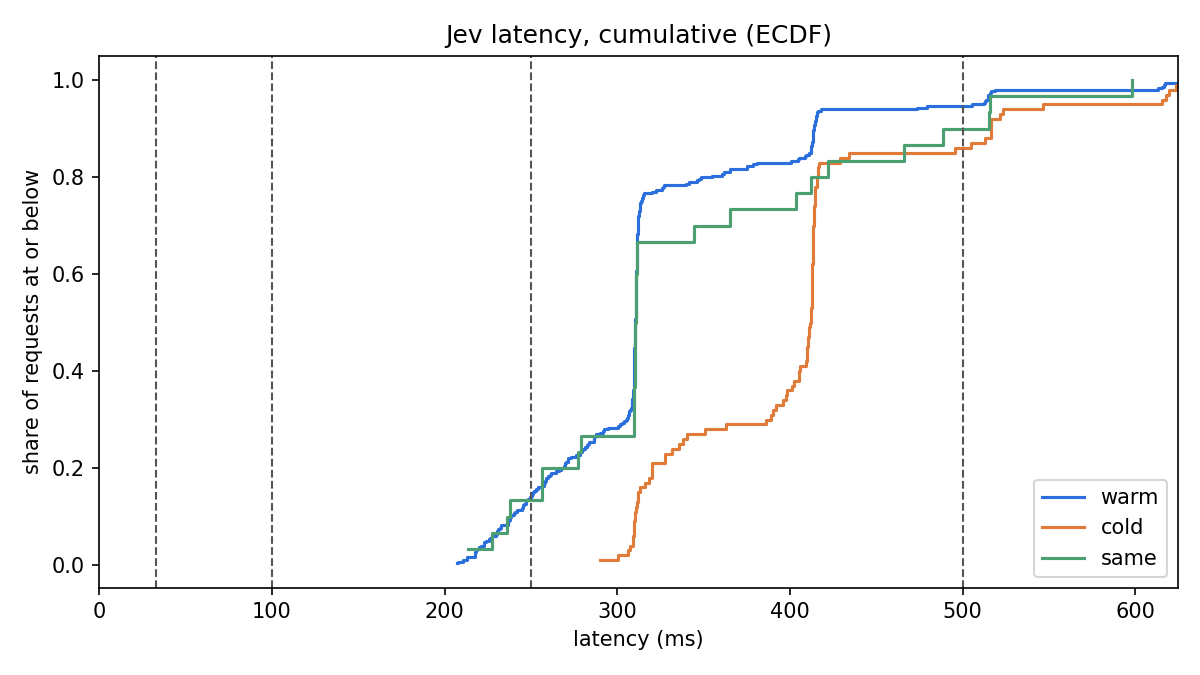
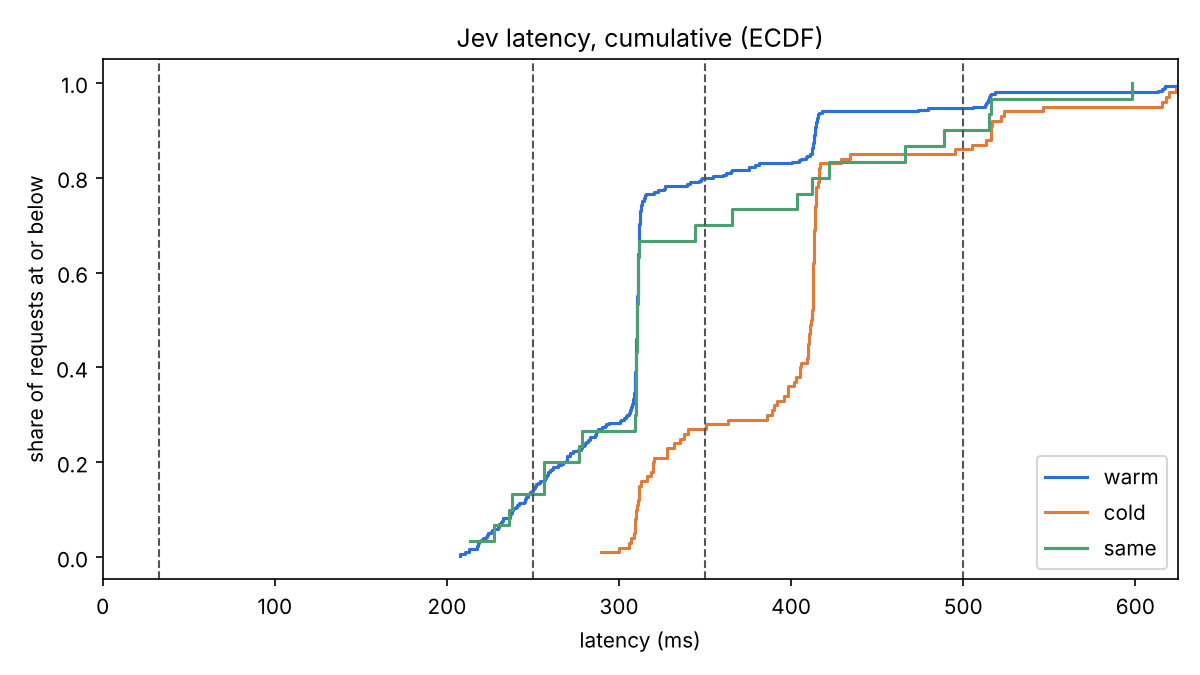
Pool several Step 0 runs: Jev latency varies over the day
Step 0 now writes a timestamped CSV per run, 'measured' latency pools every
results/step0/jev_latency*.csv, and step0_analyze compares the runs.

Claude-Session: https://claude.ai/code/session_01B7GHJ2SYo1PChap2YHwJee

diff --git a/scripts/step0_analyze.py b/scripts/step0_analyze.py
@@ -1,8 +1,11 @@
 """Step 0 analysis: latency distribution, budget shares, cost and consistency.
 
     python -m scripts.step0_analyze results/step0/jev_latency.csv
+    python -m scripts.step0_analyze "results/step0/jev_latency*.csv"   # all runs pooled
 
-Writes summary.md, latency_hist.png and latency_ecdf.png next to the CSV.
+Writes summary.md, latency_hist.png and latency_ecdf.png next to the CSV(s).
+With several runs, summary.md also compares the runs, because Jev's latency
+changes over the day and the thesis should say by how much.
 """
 
 from __future__ import annotations
@@ -19,8 +22,9 @@ import numpy as np
 import pandas as pd
 
 from framebudget.jev import PRICE_PER_M_INPUT_TOKENS
+from framebudget.latency import expand
 
-BUDGETS_MS = (33, 100, 250, 500)
+BUDGETS_MS = (33, 250, 350, 500)
 COLORS = {"warm": "#2a6fdb", "cold": "#e07b39", "same": "#4c9f70"}
 
 
@@ -40,6 +44,19 @@ def latency_table(df: pd.DataFrame) -> pd.DataFrame:
     return pd.DataFrame(rows)
 
 
+def runs_table(df: pd.DataFrame) -> pd.DataFrame:
+    """Warm latency per run: is Jev equally fast at different times?"""
+    rows = []
+    for run, g in df[df.condition == "warm"].groupby("run", sort=False):
+        ok = g[g.ok == 1].latency_ms
+        rows.append({
+            "run": run, "started": str(g.started_at.min())[:16].replace("T", " ") + " UTC",
+            "n": len(g), "median_ms": f"{ok.median():.0f}", "p95_ms": f"{ok.quantile(0.95):.0f}",
+            **{f"under_{b}ms": f"{(g.ok.eq(1) & g.latency_ms.le(b)).mean():.0%}" for b in BUDGETS_MS[1:]},
+        })
+    return pd.DataFrame(rows)
+
+
 def consistency(df: pd.DataFrame) -> str:
     g = df[(df.condition == "same") & (df.ok == 1)]
     if g.empty:
@@ -56,11 +73,12 @@ def consistency(df: pd.DataFrame) -> str:
 
 def main() -> None:
     ap = argparse.ArgumentParser()
-    ap.add_argument("csv")
+    ap.add_argument("csv", nargs="+", help="one or more CSVs or globs (quote globs in the shell)")
     args = ap.parse_args()
-    path = Path(args.csv)
-    df = pd.read_csv(path)
-    outdir = path.parent
+    paths = [Path(p) for spec in args.csv for p in expand(spec)]
+    df = pd.concat([pd.read_csv(p).assign(run=p.stem) for p in paths], ignore_index=True)
+    outdir = paths[0].parent
+    name = paths[0].name if len(paths) == 1 else f"{len(paths)} runs pooled"
 
     table = latency_table(df)
     ok = df[df.ok == 1]
@@ -77,7 +95,7 @@ def main() -> None:
         elif c.endswith("_ms"):
             fmt[c] = fmt[c].map(lambda v: f"{v:.0f}")
     md = [
-        f"# Step 0 results: `{path.name}`\n",
+        f"# Step 0 results: {name}\n",
         f"Served by: {', '.join(sorted(set(map(str, ok.served_model))))}  ",
         f"First request: {df.started_at.min()}  ",
         f"Last request: {df.started_at.max()}\n",
@@ -85,6 +103,12 @@ def main() -> None:
         fmt.to_markdown(index=False) if hasattr(fmt, "to_markdown") else fmt.to_string(index=False),
         "\n`under_Xms` is the share of requests that succeeded within X ms, i.e. how often a",
         "decision with that deadline would have arrived in time.\n",
+        *([] if len(paths) == 1 else [
+            "## Runs compared (warm)\n",
+            runs_table(df).to_markdown(index=False),
+            "\nThe table above pools all runs. Each run is a sample of Jev at one time of day;",
+            "pooling them gives the simulation a latency mix that is not tied to one moment.\n",
+        ]),
         "## Cost\n",
         f"Mean input tokens per request: {tokens:.0f}. Cost reported by the API for this run: ${reported:.5f}.",
         f"At one decision every 5 s, an hour of play is {per_hour:.0f} requests, about ${cost_hour:.4f}.\n",

diff --git a/framebudget/latency.py b/framebudget/latency.py
@@ -28,13 +28,19 @@ class EmpiricalLatency:
 
     Resampling measured values keeps the true shape of the distribution,
     including its slow tail, without assuming any formula.
+
+    `csv_path` may be a glob such as "results/step0/jev_latency*.csv": Jev's
+    latency changes over the day, so several runs at different times are pooled.
     """
 
     def __init__(self, csv_path: str, condition: str = "warm", seed: int = 0):
         import csv
 
-        with open(csv_path, newline="") as f:
-            rows = [r for r in csv.DictReader(f) if r.get("condition", condition) == condition]
+        self.paths = expand(csv_path)
+        rows = []
+        for path in self.paths:
+            with open(path, newline="") as f:
+                rows += [r for r in csv.DictReader(f) if r.get("condition", condition) == condition]
         # A failed request is treated as never arriving.
         self.values = [float(r["latency_ms"]) if r.get("ok", "1") == "1" else math.inf for r in rows]
         if not self.values:
@@ -51,15 +57,21 @@ class EmpiricalLatency:
         return m
 
 
-MEASURED_CSV = "results/step0/jev_latency.csv"
+# Every Step 0 run: jev_latency.csv (the first one) and jev_latency_<time>.csv.
+MEASURED_CSV = "results/step0/jev_latency*.csv"
+
+
+def expand(pattern: str) -> list[str]:
+    """The files a path or glob names, sorted, so the pooled order is stable."""
+    import glob
+
+    return sorted(glob.glob(pattern)) if glob.has_magic(pattern) else [pattern]
 
 
 def resolve(spec: str) -> str:
-    """'measured' means the Step 0 CSV if it exists, otherwise the synthetic model."""
+    """'measured' means all Step 0 runs if any exist, otherwise the synthetic model."""
     if spec == "measured":
-        from pathlib import Path
-
-        return MEASURED_CSV if Path(MEASURED_CSV).exists() else "synthetic"
+        return MEASURED_CSV if expand(MEASURED_CSV) else "synthetic"
     return spec
 
 

diff --git a/scripts/step0_measure_latency.py b/scripts/step0_measure_latency.py
@@ -12,7 +12,8 @@ Run on your own machine (needs TYPESAFE_API_KEY or OPENROUTER_API_KEY, see docs/
     python -m scripts.step0_measure_latency
     python -m scripts.step0_measure_latency --fake     # offline dry run, no key
 
-Then analyse with `python -m scripts.step0_analyze results/step0/jev_latency.csv`.
+Each run writes a new timestamped CSV. Analyse all runs together with
+`python -m scripts.step0_analyze "results/step0/jev_latency*.csv"`.
 """
 
 from __future__ import annotations
@@ -58,7 +59,8 @@ def main() -> None:
     ap.add_argument("--same", type=int, default=30, help="requests repeating one fixed state")
     ap.add_argument("--gap-ms", type=float, default=200, help="pause between requests")
     ap.add_argument("--seed", type=int, default=0)
-    ap.add_argument("--out", default="results/step0/jev_latency.csv")
+    ap.add_argument("--out", default=None,
+                    help="default: results/step0/jev_latency_<date>_<time>.csv, a new file per run")
     ap.add_argument("--fake", action="store_true", help="offline dry run with a fake Jev")
     args = ap.parse_args()
 
@@ -72,7 +74,8 @@ def main() -> None:
         + [("same", lambda: fixed_state, False)] * args.same
     )
 
-    out = Path(args.out)
+    stamp = dt.datetime.now().strftime("%Y%m%d_%H%M")
+    out = Path(args.out or f"results/step0/jev_latency_{stamp}.csv")
     out.parent.mkdir(parents=True, exist_ok=True)
     # One unmeasured request first, so the "warm" condition starts with an open connection.
     client.decide(fixed_state)

diff --git a/tests/test_step0.py b/tests/test_step0.py
@@ -85,3 +85,14 @@ def test_provider_follows_the_key(monkeypatch, tmp_path):
     assert jev.detect_provider() == "openrouter" and jev.load_api_key() == "or"
     (tmp_path / ".env").write_text("TYPESAFE_API_KEY=ts\n")
     assert jev.detect_provider() == "typesafe" and jev.load_api_key() == "ts"
+
+
+def test_empirical_latency_pools_runs_from_a_glob(tmp_path):
+    from framebudget.latency import EmpiricalLatency
+
+    header = "condition,latency_ms,ok\n"
+    (tmp_path / "jev_latency.csv").write_text(header + "warm,300,1\nwarm,320,1\ncold,900,1\n")
+    (tmp_path / "jev_latency_20261012_1800.csv").write_text(header + "warm,240,1\nwarm,250,0\n")
+    m = EmpiricalLatency(str(tmp_path / "jev_latency*.csv"))
+    assert len(m.paths) == 2
+    assert sorted(m.values) == [240.0, 300.0, 320.0, float("inf")]

diff --git a/docs/JEV_GUIDE.md b/docs/JEV_GUIDE.md
@@ -116,8 +116,15 @@ python -m scripts.step0_measure_latency
 ```
 
 This sends 431 requests (300 warm, 100 cold, 30 same-state, one warm-up) with a
-200 ms pause between them and takes about 3 minutes. It writes
-`results/step0/jev_latency.csv` row by row, so an interruption loses nothing.
+200 ms pause between them and takes about 3 minutes. It writes a new file
+`results/step0/jev_latency_<date>_<time>.csv` row by row, so an interruption
+loses nothing and a second run never overwrites the first.
+
+**Run it several times, at different times of day** (for example morning,
+afternoon and evening, ideally on two different days). Jev's latency is not
+constant: on 12 Oct the median was 310 ms at 12:24 but 238 ms half an hour
+later. Every later step pools all runs it finds in `results/step0/`, so the
+simulation uses a mix of good and bad moments instead of one random snapshot.
 
 Close other downloads and video calls while it runs; they add latency. Write
 down where you ran it (home Wi-Fi, university network, ...), since that belongs
@@ -126,10 +133,11 @@ in the methodology chapter.
 Then:
 
 ```bash
-python -m scripts.step0_analyze results/step0/jev_latency.csv
+python -m scripts.step0_analyze "results/step0/jev_latency*.csv"
 ```
 
-This prints a table and writes `summary.md`, `latency_hist.png` and
+The quotes matter: they let the script find all runs itself. It prints the
+pooled table, a per-run comparison, and writes `summary.md`, `latency_hist.png` and
 `latency_ecdf.png` into `results/step0/`.
 
 ## 6. Save the results to GitHub
@@ -151,7 +159,7 @@ the virtual environment active. Commit `results/` and `data/recordings/` after e
 | # | command | what it does | requests | time |
 |---|---|---|---|---|
 | 1 | `python -m scripts.jev_hello` | first call, checks key and format | 2 | seconds |
-| 2 | `python -m scripts.step0_measure_latency` then `python -m scripts.step0_analyze results/step0/jev_latency.csv` | the latency distribution | 431 | ~3 min |
+| 2 | `python -m scripts.step0_measure_latency` (3 or more times, spread over the day) then `python -m scripts.step0_analyze "results/step0/jev_latency*.csv"` | the latency distribution | 431 per run | ~3 min per run |
 | 3 | `python -m scripts.step1_bare_loop` | loop timing on your machine (no Jev) | 0 | ~6 min |
 | 4 | `python -m scripts.step4_blocking --live` | blocking with the real Jev, real clock | ~90 | ~5 min |
 | 5 | `python -m scripts.step5_async --live --budgets 250 --games 1` | async with real threads and real Jev | ~90 | ~5 min |
@@ -167,18 +175,18 @@ reproducible dataset:
 macOS / Linux (bash):
 
 ```bash
-L=results/step0/jev_latency.csv
-python -m scripts.step9_run_experiments --latency $L --answers record:data/recordings/sweep/answers.json --workers 8
-python -m scripts.step9_run_experiments --latency $L --answers replay:data/recordings/sweep/answers.json
+L="results/step0/jev_latency*.csv"   # all Step 0 runs, pooled
+python -m scripts.step9_run_experiments --latency "$L" --answers record:data/recordings/sweep/answers.json --workers 8
+python -m scripts.step9_run_experiments --latency "$L" --answers replay:data/recordings/sweep/answers.json
 python -m scripts.step10_analyze
 ```
 
 Windows (PowerShell):
 
 ```powershell
-$L = "results/step0/jev_latency.csv"
-python -m scripts.step9_run_experiments --latency $L --answers record:data/recordings/sweep/answers.json --workers 8
-python -m scripts.step9_run_experiments --latency $L --answers replay:data/recordings/sweep/answers.json
+$L = "results/step0/jev_latency*.csv"   # all Step 0 runs, pooled
+python -m scripts.step9_run_experiments --latency "$L" --answers record:data/recordings/sweep/answers.json --workers 8
+python -m scripts.step9_run_experiments --latency "$L" --answers replay:data/recordings/sweep/answers.json
 python -m scripts.step10_analyze
 ```
 

diff --git a/results/step0/summary.md b/results/step0/summary.md
@@ -1,4 +1,4 @@
-# Step 0 results: `jev_latency.csv`
+# Step 0 results: jev_latency.csv
 
 Served by: jev-1.13.0  
 First request: 2026-10-12T12:24:36.504+00:00  
@@ -6,11 +6,11 @@ Last request: 2026-10-12T12:28:30.361+00:00
 
 ## Latency
 
-| condition   |   n |   errors |   median_ms |   p95_ms |   p99_ms |   max_ms | under_33ms   | under_100ms   | under_250ms   | under_500ms   |
+| condition   |   n |   errors |   median_ms |   p95_ms |   p99_ms |   max_ms | under_33ms   | under_250ms   | under_350ms   | under_500ms   |
 |:------------|----:|---------:|------------:|---------:|---------:|---------:|:-------------|:--------------|:--------------|:--------------|
-| warm        | 300 |        0 |         310 |      506 |      617 |      649 | 0%           | 0%            | 14%           | 95%           |
-| cold        | 100 |        0 |         412 |      550 |      630 |     1229 | 0%           | 0%            | 0%            | 86%           |
-| same        |  30 |        0 |         311 |      516 |      574 |      598 | 0%           | 0%            | 13%           | 90%           |
+| warm        | 300 |        0 |         310 |      506 |      617 |      649 | 0%           | 14%           | 80%           | 95%           |
+| cold        | 100 |        0 |         412 |      550 |      630 |     1229 | 0%           | 0%            | 27%           | 86%           |
+| same        |  30 |        0 |         311 |      516 |      574 |      598 | 0%           | 13%           | 70%           | 90%           |
 
 `under_Xms` is the share of requests that succeeded within X ms, i.e. how often a
 decision with that deadline would have arrived in time.
